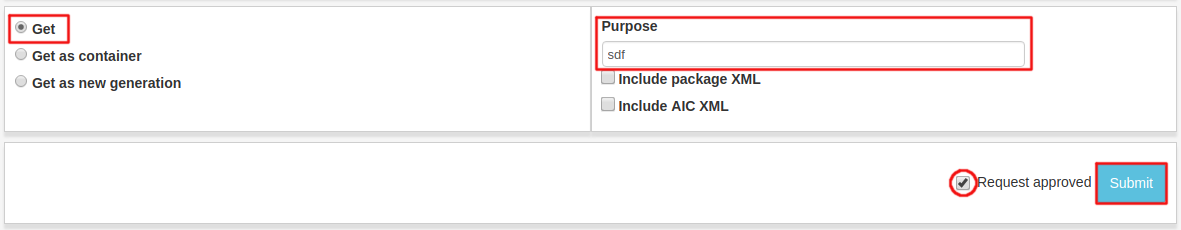
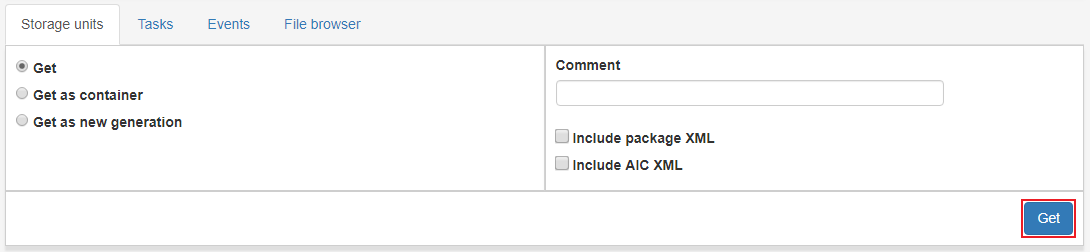
Update storage unit page with new print screens and some text updates

diff --git a/ESSArch_PP/docs/user_guide/storage-units.rst b/ESSArch_PP/docs/user_guide/storage-units.rst
@@ -17,14 +17,14 @@ Requests
 ========
 
 To make a request click the desired request type, fill in the
-required information and click the **Submit** button.
+required information and click the **Get** button.
 
 Get
 ---
 Access AIP in archival storage to the Workspace with
 content extracted as read only.
 
-Choose the option **Get** and click **Submit**. The AIP generation should
+Choose the option **Get** and click **Get**. The AIP generation should
 appear in the Access workspace shortly, the progress can be followed
 in the status bar of the IP and in the
 :ref:`State view <user-interface-state-view>` for more detailed information.
@@ -36,7 +36,7 @@ Get as container
 Access AIP in archival storage to the Workspace as
 a tar or zip file.
 
-Choose the option **Get as container** and click **Submit**. The AIP
+Choose the option **Get as container** and click **Get**. The AIP
 generation should appear in the workspace shortly,
 the progress can be followed in the status bar of the IP and in the
 :ref:`State view <user-interface-state-view>` for more detailed information.
@@ -50,7 +50,7 @@ new generation of the AIP.
 The new IP is basically a whole new IP but it is still related to the
 family of IPs that are related to the same AIC.
 
-Choose the option **Get as new generation** and click **Submit**. The AIP generation should
+Choose the option **Get as new generation** and click **Get**. The AIP generation should
 appear in the Access workspace shortly, the progress can be followed
 in the status bar of the IP and in the
 :ref:`State view <user-interface-state-view>` for more detailed information.
